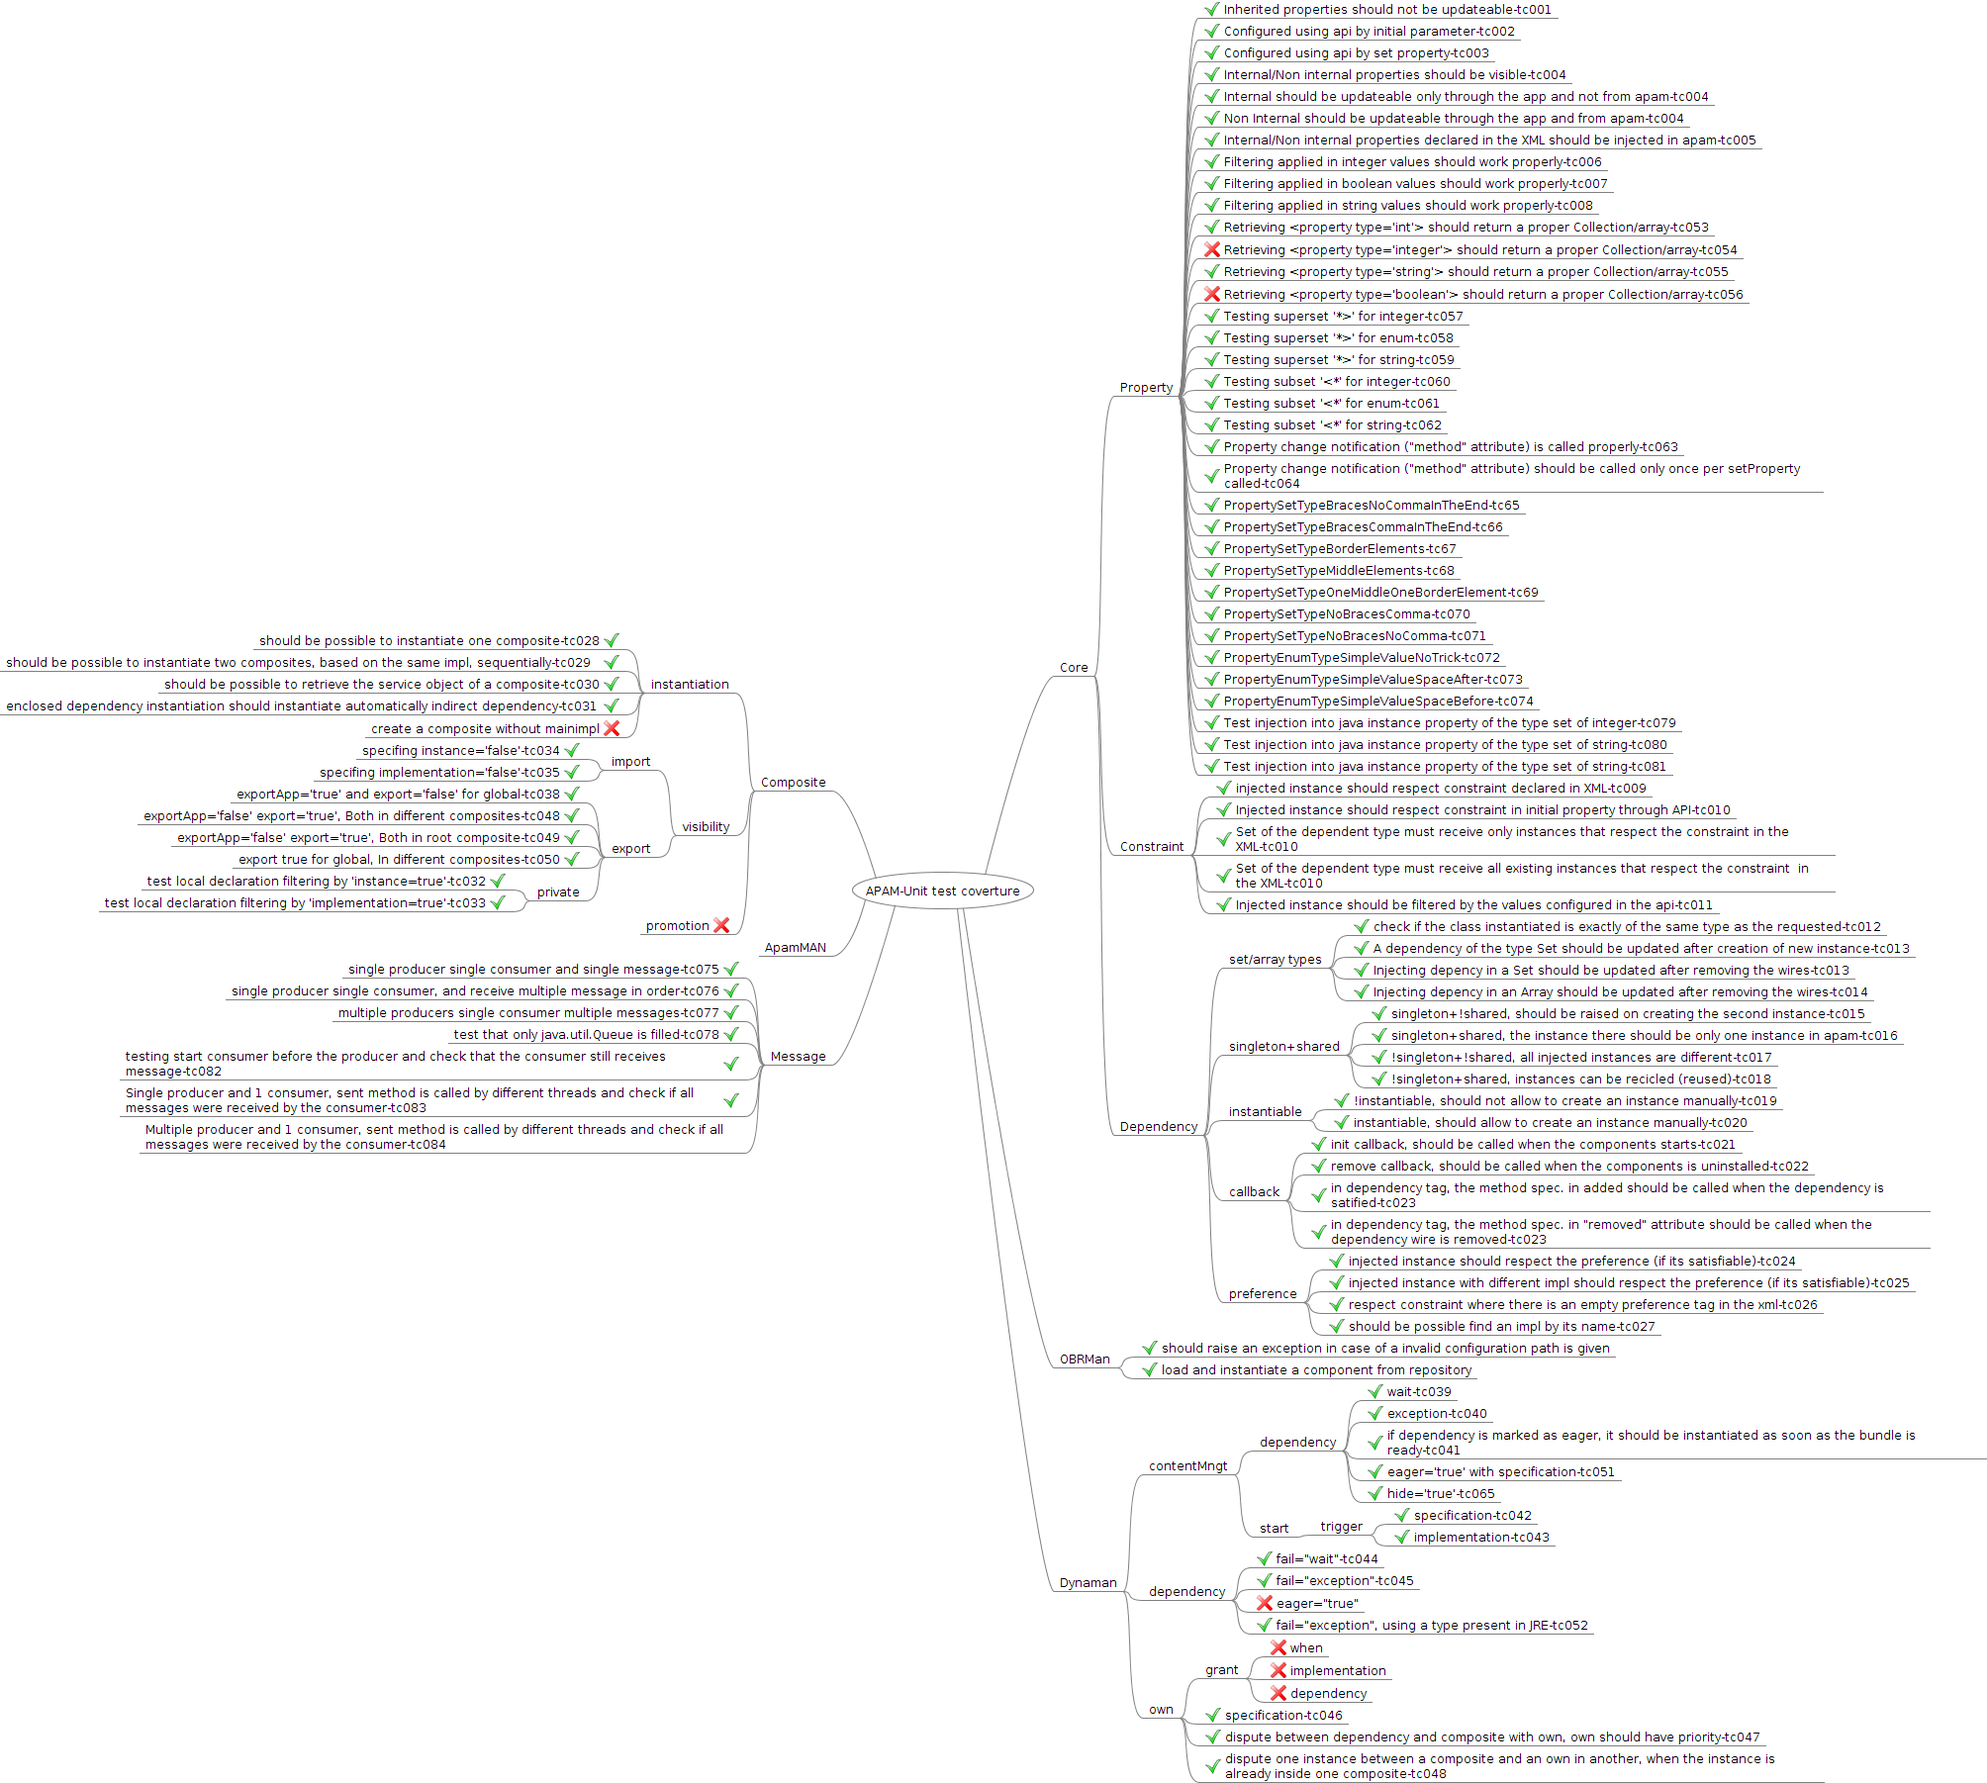
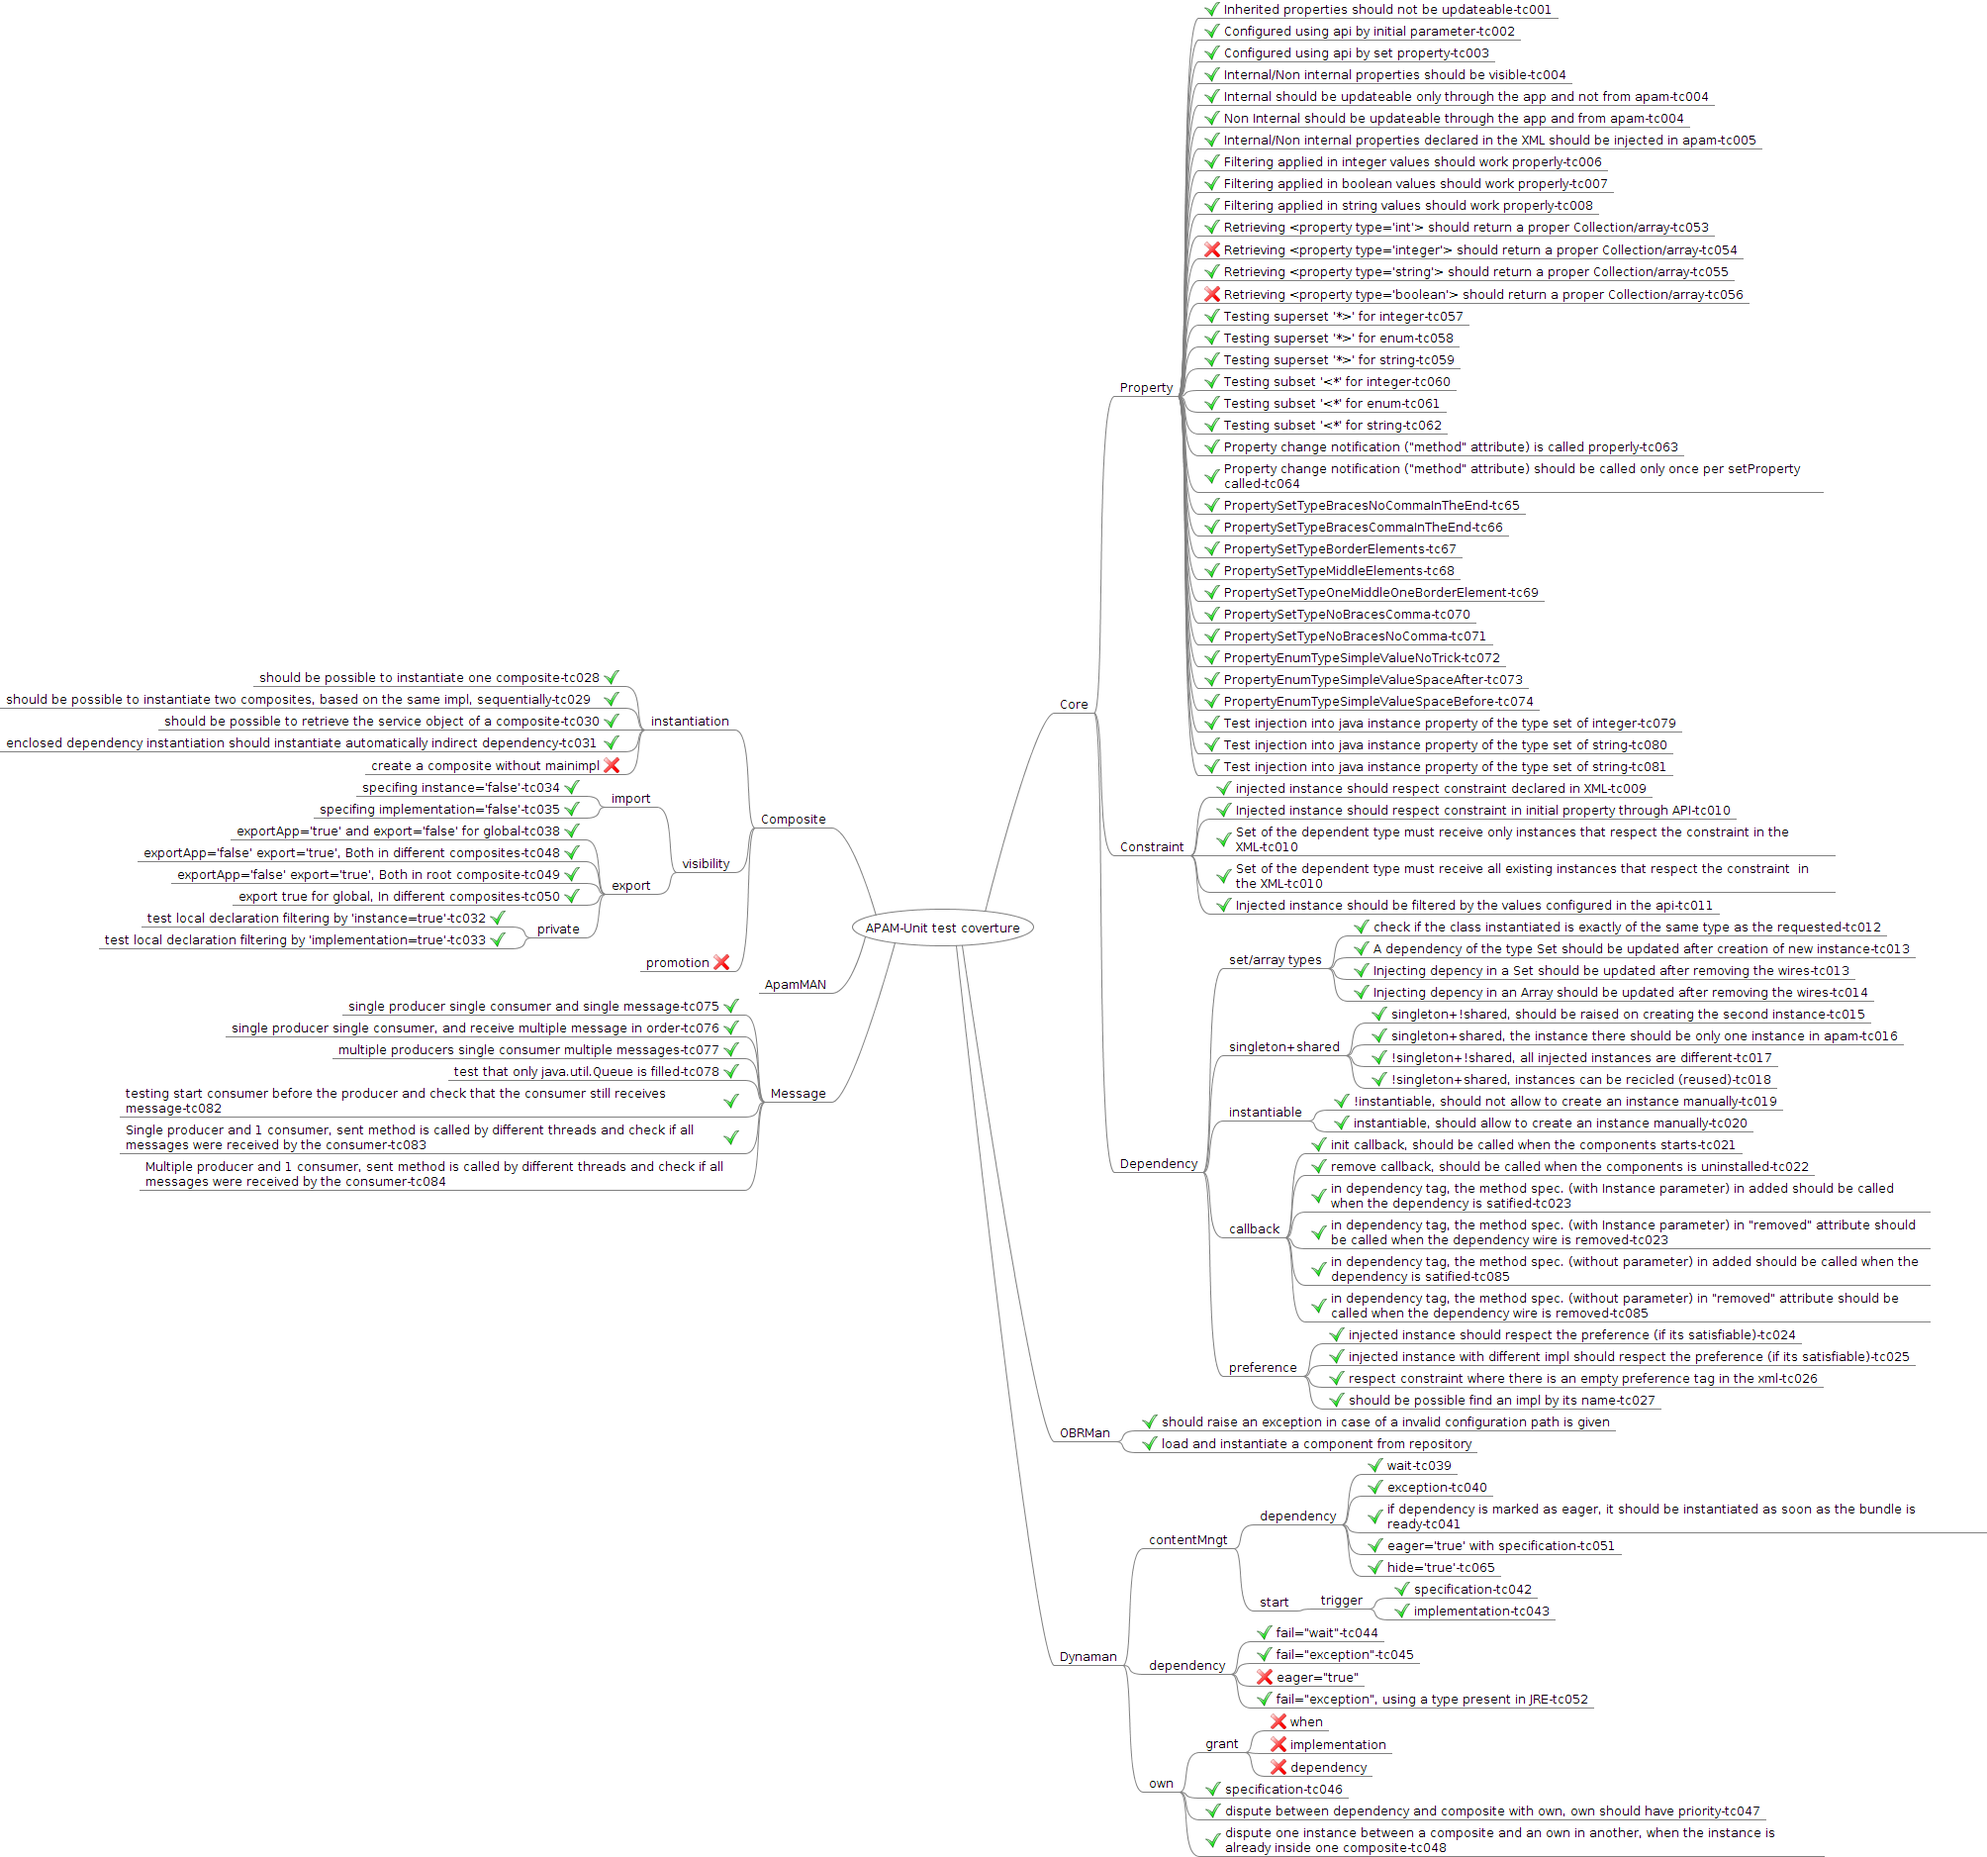
adding tc085 to test callback without parameters

diff --git a/tests/pax-test/src/test/java/fr/imag/adele/apam/test/testcases/InjectionInstantiationTest.java b/tests/pax-test/src/test/java/fr/imag/adele/apam/test/testcases/InjectionInstantiationTest.java
@@ -627,9 +627,38 @@ public class InjectionInstantiationTest extends ExtensionAbstract {
 	@Test
 	public void AddedRemovedCallbackInDependencyDeclaration_tc023(){
 		
-		String message="Into an <implementation>, when declaring a dependency, we may specify methods to be called as soon as the dependency is wired or unwired, those are 'added' and 'removed' attributes respectively. %s";
+		String message="Into an <implementation>, when declaring a dependency, we may specify methods (with an Instance type parameter) to be called as soon as the dependency is wired or unwired, those are 'added' and 'removed' attributes respectively. %s";
 		
-		Implementation impl=CST.apamResolver.findImplByName(null,"S1Impl-added-removed-callback");
+		Implementation impl=CST.apamResolver.findImplByName(null,"S1Impl-added-removed-callback-signature-instance");
+		apam.waitForIt(Constants.CONST_WAIT_TIME);
+		
+		Instance instance=impl.createInstance(null, new HashMap<String, String>());
+		
+		S1Impl s1=(S1Impl)instance.getServiceObject();
+		
+		Assert.assertTrue(String.format(message, "Although 'added' method should not be called before the resolution of the dependency"),s1.getIsOnInitCallbackCalled()==false);
+		Assert.assertTrue(String.format(message, "Although 'remove' method should not be called before the resolution of the dependency"),s1.getIsOnRemoveCallbackCalled()==false);
+		
+		s1.getS2();
+		
+		Assert.assertTrue(String.format(message, "Although 'added' method was not called during the wiring process(dependency resolution)"),s1.getIsOnInitCallbackCalled()==true);
+		
+		Assert.assertTrue(String.format(message, "the 'added' the callback method was called although the instance was not received as parameter"),s1.getIsBindUnbindReceivedInstanceParameter()==true);
+		
+		auxDisconectWires(instance);
+		
+		Assert.assertTrue(String.format(message, "Although 'remove' method was not called during the unwiring process"),s1.getIsOnRemoveCallbackCalled()==true);
+		
+		Assert.assertTrue(String.format(message, "the 'remove' the callback method was called although the instance was not received as parameter"),s1.getIsBindUnbindReceivedInstanceParameter()==true);
+
+	}	
+	
+	@Test
+	public void AddedRemovedCallbackInDependencyDeclarationEmptySignature_tc085(){
+		
+		String message="Into an <implementation>, when declaring a dependency, we may specify methods (without parameters) to be called as soon as the dependency is wired or unwired, those are 'added' and 'removed' attributes respectively. %s";
+		
+		Implementation impl=CST.apamResolver.findImplByName(null,"S1Impl-added-removed-callback-signature-empty");
 		apam.waitForIt(Constants.CONST_WAIT_TIME);
 		
 		Instance instance=impl.createInstance(null, new HashMap<String, String>());

diff --git a/documentations/technical/test-coverture/APAM-UnitTest-Coverture-OnFreeMindApp.mm b/documentations/technical/test-coverture/APAM-UnitTest-Coverture-OnFreeMindApp.mm
@@ -1,6 +1,6 @@
 <map version="0.9.0">
 <!-- To view this file, download free mind mapping software FreeMind from http://freemind.sourceforge.net -->
-<node CREATED="1353065971613" ID="ID_856281372" MODIFIED="1363611242373" TEXT="APAM-Unit test coverture">
+<node CREATED="1353065971613" ID="ID_856281372" MODIFIED="1363699317435" TEXT="APAM-Unit test coverture">
 <node CREATED="1353065995318" ID="ID_866107605" MODIFIED="1353066274405" POSITION="right" TEXT="Core">
 <node CREATED="1353066005446" ID="ID_776905123" MODIFIED="1360338389070" TEXT="Property">
 <node CREATED="1353066218822" ID="ID_476104344" MODIFIED="1354294351351" TEXT="Inherited properties should not be updateable-tc001">
@@ -170,10 +170,16 @@
 <node CREATED="1353075141416" ID="ID_384580446" MODIFIED="1354295158437" TEXT="remove callback, should be called when the components is uninstalled-tc022">
 <icon BUILTIN="button_ok"/>
 </node>
-<node CREATED="1353422621394" ID="ID_1384277878" MODIFIED="1354295249502" TEXT="in dependency tag, the method spec. in added should be called when the dependency is satified-tc023">
+<node CREATED="1353422621394" ID="ID_1384277878" MODIFIED="1363702561002" TEXT="in dependency tag, the method spec. (with Instance parameter) in added should be called when the dependency is satified-tc023">
 <icon BUILTIN="button_ok"/>
 </node>
-<node CREATED="1353422670626" ID="ID_1652284443" MODIFIED="1354295261222" TEXT="in dependency tag, the method spec. in &quot;removed&quot; attribute should be called when the dependency wire is removed-tc023">
+<node CREATED="1353422670626" ID="ID_1652284443" MODIFIED="1363702566458" TEXT="in dependency tag, the method spec. (with Instance parameter) in &quot;removed&quot; attribute should be called when the dependency wire is removed-tc023">
+<icon BUILTIN="button_ok"/>
+</node>
+<node CREATED="1363699330015" ID="ID_308109238" MODIFIED="1363702539595" TEXT="in dependency tag, the method spec. (without parameter) in added should be called when the dependency is satified-tc085">
+<icon BUILTIN="button_ok"/>
+</node>
+<node CREATED="1363702462031" ID="ID_772256253" MODIFIED="1363702552010" TEXT="in dependency tag, the method spec. (without parameter) in &quot;removed&quot; attribute should be called when the dependency wire is removed-tc085">
 <icon BUILTIN="button_ok"/>
 </node>
 </node>

diff --git a/tests/services-apps/apam-pax-samples-impl-s1/src/main/java/fr/imag/adele/apam/pax/test/implS1/S1Impl.java b/tests/services-apps/apam-pax-samples-impl-s1/src/main/java/fr/imag/adele/apam/pax/test/implS1/S1Impl.java
@@ -28,6 +28,7 @@ public class S1Impl implements S1
 {
 	Boolean isOnInitCallbackCalled=false;
 	Boolean isOnRemoveCallbackCalled=false;
+	Boolean isBindUnbindReceivedInstanceParameter=false;
 	
 	String stateInternal;
 	String stateNotInternal;
@@ -58,23 +59,29 @@ public class S1Impl implements S1
         return this.getClass().getName();
     }
     
-    public void start(){
+    public void bindWithoutInstance(){
     	System.out.println("Starting:"+this.getClass().getName());
     	isOnInitCallbackCalled=true;
     }
     
-    public void stop(){
+    public void unbindWithoutInstance(){
     	System.out.println("Stopping:"+this.getClass().getName());
     	isOnRemoveCallbackCalled=true;
     }
     
-    public void bind(Instance instance){
+    public void bindWithInstance(Instance instance){
     	System.out.println("Starting:"+this.getClass().getName());
+    	
+    	if(instance!=null) isBindUnbindReceivedInstanceParameter=true;
+    	
     	isOnInitCallbackCalled=true;
     }
     
-    public void unbind(Instance instance){
+    public void unbindWithInstance(Instance instance){
     	System.out.println("Stopping:"+this.getClass().getName());
+    	
+    	if(instance!=null) isBindUnbindReceivedInstanceParameter=true;
+    	
     	isOnRemoveCallbackCalled=true;
     }
 
@@ -181,6 +188,15 @@ public class S1Impl implements S1
 
 	public void setS3(S3 s3) {
 		this.s3 = s3;
+	}
+
+	public Boolean getIsBindUnbindReceivedInstanceParameter() {
+		return isBindUnbindReceivedInstanceParameter;
+	}
+
+	public void setIsBindUnbindReceivedInstanceParameter(
+			Boolean isBindUnbindReceivedInstanceParameter) {
+		this.isBindUnbindReceivedInstanceParameter = isBindUnbindReceivedInstanceParameter;
 	}
 
 }

diff --git a/runtime/apform/apform-ipojo/src/main/java/fr/imag/adele/apam/apform/impl/handlers/DependencyInjectionHandler.java b/runtime/apform/apform-ipojo/src/main/java/fr/imag/adele/apam/apform/impl/handlers/DependencyInjectionHandler.java
@@ -138,7 +138,7 @@ public class DependencyInjectionHandler extends ApformHandler {
                 try {
                     Set<MethodMetadata> methodMetadatas = (Set<MethodMetadata>) primitive.getInstrumentation()
                             .getCallbacks(
-                                    callbackMethod.getMethodName(), true);
+                                    callbackMethod.getMethodName(), false);
                     for (MethodMetadata methodMetadata : methodMetadatas) {
                         callbacks.add(new Callback(methodMetadata, getInstanceManager()));
                     }

diff --git a/runtime/declarations/src/main/java/fr/imag/adele/apam/declarations/CallbackMethod.java b/runtime/declarations/src/main/java/fr/imag/adele/apam/declarations/CallbackMethod.java
@@ -74,7 +74,7 @@ public class CallbackMethod {
             switch (trigger) {
                 case Bind:                   
                 case Unbind:
-                     implementation.getInstrumentation().getCallbacks(methodName,true);
+                     implementation.getInstrumentation().getCallbacks(methodName,false);
                     return true;
                 case onInit:
                 case onRemove:
